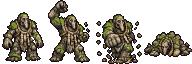
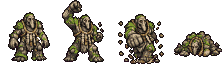
Dex: dot sprites centred by body mass, cells widened where there was no room

diff --git a/app.js b/app.js
@@ -55,11 +55,14 @@
     box.appendChild(el('div', 'dotcap', UI.dot_label || ''));
     var im = new Image();
     im.onload = function () {
-      var fw = (im.height === 48 || im.height === 64) ? 48 : im.width;     // 1コマの幅
-      if (im.height === 48 && im.width % 48 !== 0 && im.width % 64 === 0) fw = 64;   // 幅64のコマ(くえびこ・みくまり)
+      var fw = im.width;                                                  // 1コマの幅: 高さ48/64のシートは、幅が割り切れるコマ幅(48→56→64)
+      if (im.height === 48 || im.height === 64) {
+        fw = 48;
+        if (im.width % 48 !== 0) fw = (im.width % 56 === 0) ? 56 : 64;
+      }
       var frames = Math.max(1, Math.round(im.width / fw));
       var s = fw <= 64 ? 2 : 3;
-      if (fw * s > 96 && box.parentNode) box.parentNode.classList.add('wide');   // 幅64のコマは、左の欄を広げて収める                                          // 整数倍(96px幅)
+      if (fw * s > 96 && box.parentNode) box.parentNode.classList.add('wide');   // 整数倍で96pxを超えるコマ(56/64幅)は、左の欄を広げて収める
       dot.style.width = fw * s + 'px';
       dot.style.height = im.height * s + 'px';
       dot.style.backgroundImage = 'url(' + im.src + ')';

diff --git a/index.html b/index.html
@@ -89,6 +89,6 @@
 </main>
 <script src="ui.js?v=3"></script>
 <script src="dexlib.js?v=3"></script>
-<script src="app.js?v=5"></script>
+<script src="app.js?v=6"></script>
 </body>
 </html>
